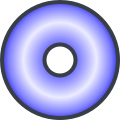
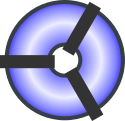
Improve reactor graphics slightly

diff --git a/building.py b/building.py
@@ -282,7 +282,12 @@ class Reactor:
             s.color = (1, 1, 1, 0)
             w2d.animate(s, duration=0.3, color=(1, 1, 1, 1))
         reactor.scale = 2.0
-        w2d.animate(reactor, scale=1.0, tween='decelerate')
+        w2d.animate(
+            reactor,
+            scale=1.0,
+            tween='decelerate',
+            angle=random.choice((6, -6))
+        )
         base.scale = 0.5
         w2d.animate(base, scale=1.0, tween='decelerate')
 
